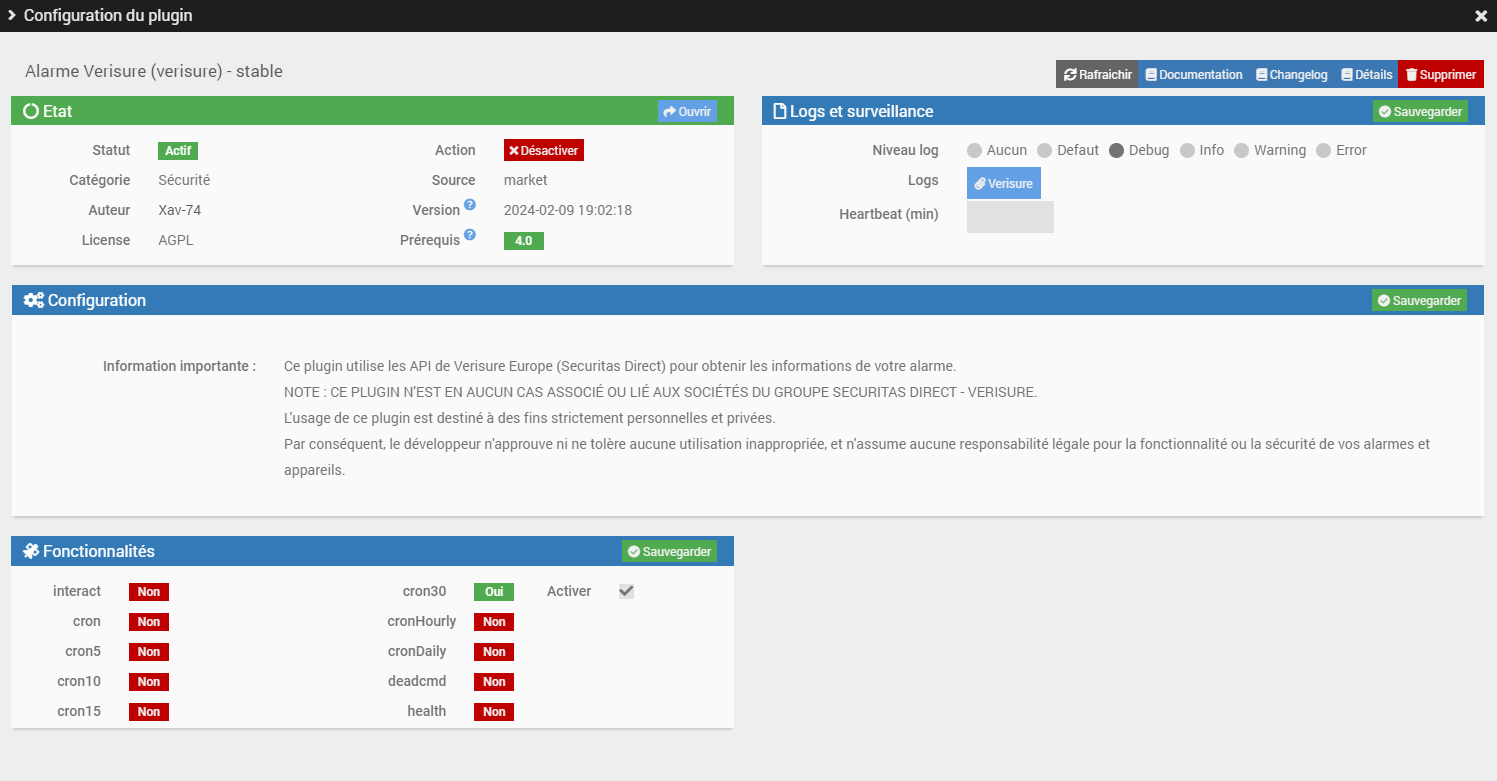
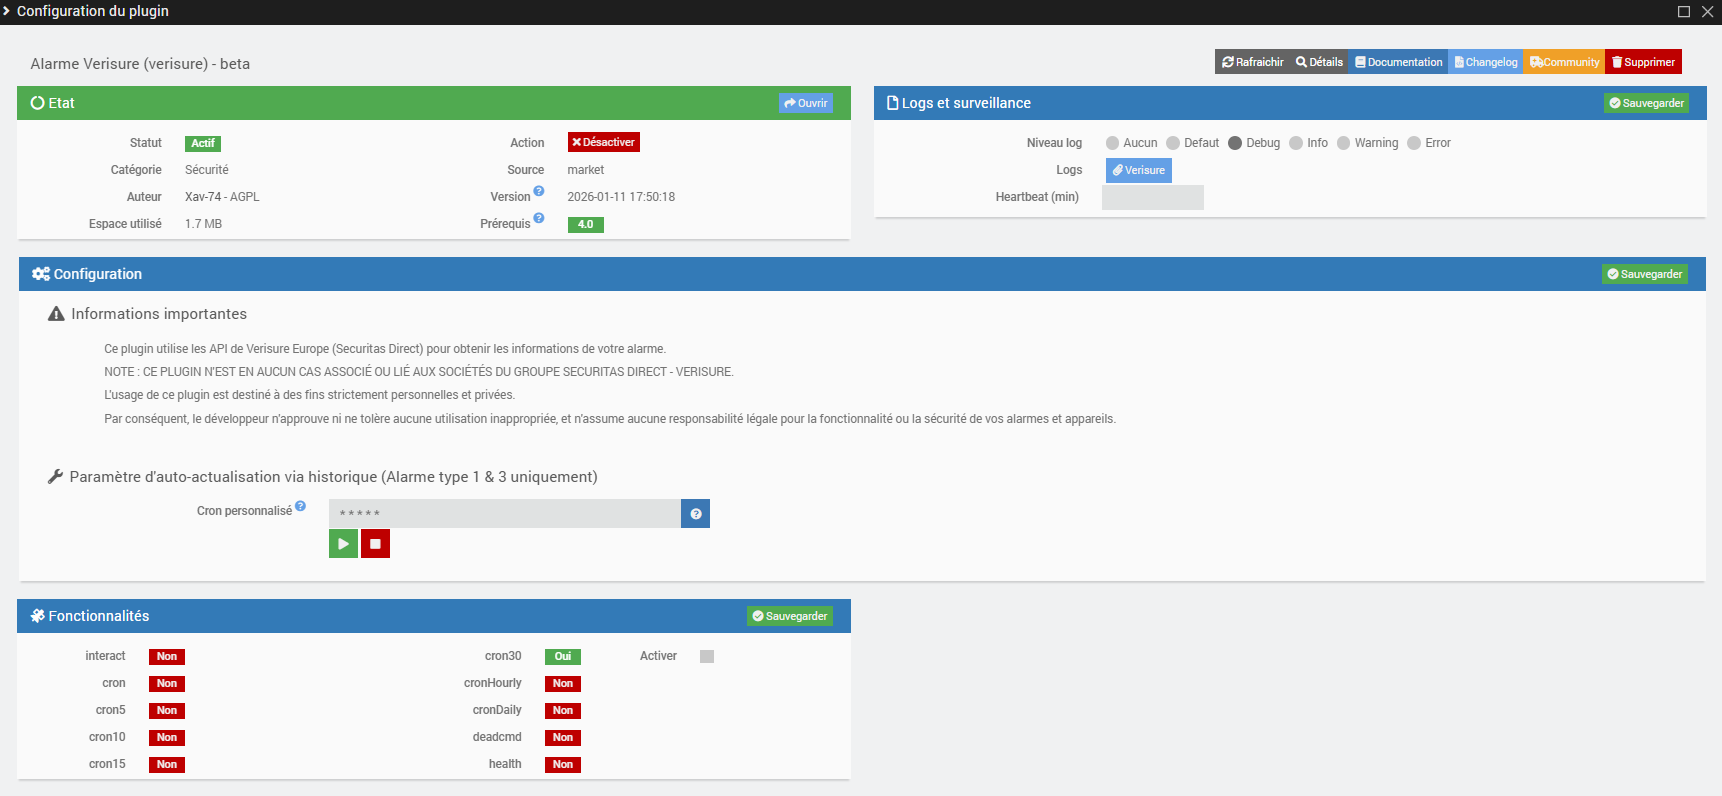
Update verisure docs

Changed region(s): [[0.0, 0.0, 1.0, 0.9834]]

diff --git a/verisure/fr_FR/changelog.md b/verisure/fr_FR/changelog.md
@@ -12,6 +12,21 @@ pluginId: verisure
 **Remarque** : en cas de mise à jour non listée ici, c'est que celle-ci ne comporte que des changements mineurs du type documentation ou corrections de bugs mineurs.
 
 
+# 2026-02-22
+
+Ajout des fonctions suivantes :
+ - Prise en charge des détecteurs de mouvements extérieurs QP (type 3)
+ - Prise en charge du mode extérieur (type 3)
+ - Ajout refresh via historique (type 1 & 3)
+ - Prise en charge du "mode forcé" (type 3)
+ - Prise en charge des détecteurs d'eau (type 2)
+ 
+ Corrections suivantes :
+ - Bugfix serrure connectée (type 3)
+ - Bugfix login request (type 2)
+ - Bugfix affichage nom capteur widget (type 2)
+
+
 # 2024-12-31
 
 Ajout des fonctions suivantes :
